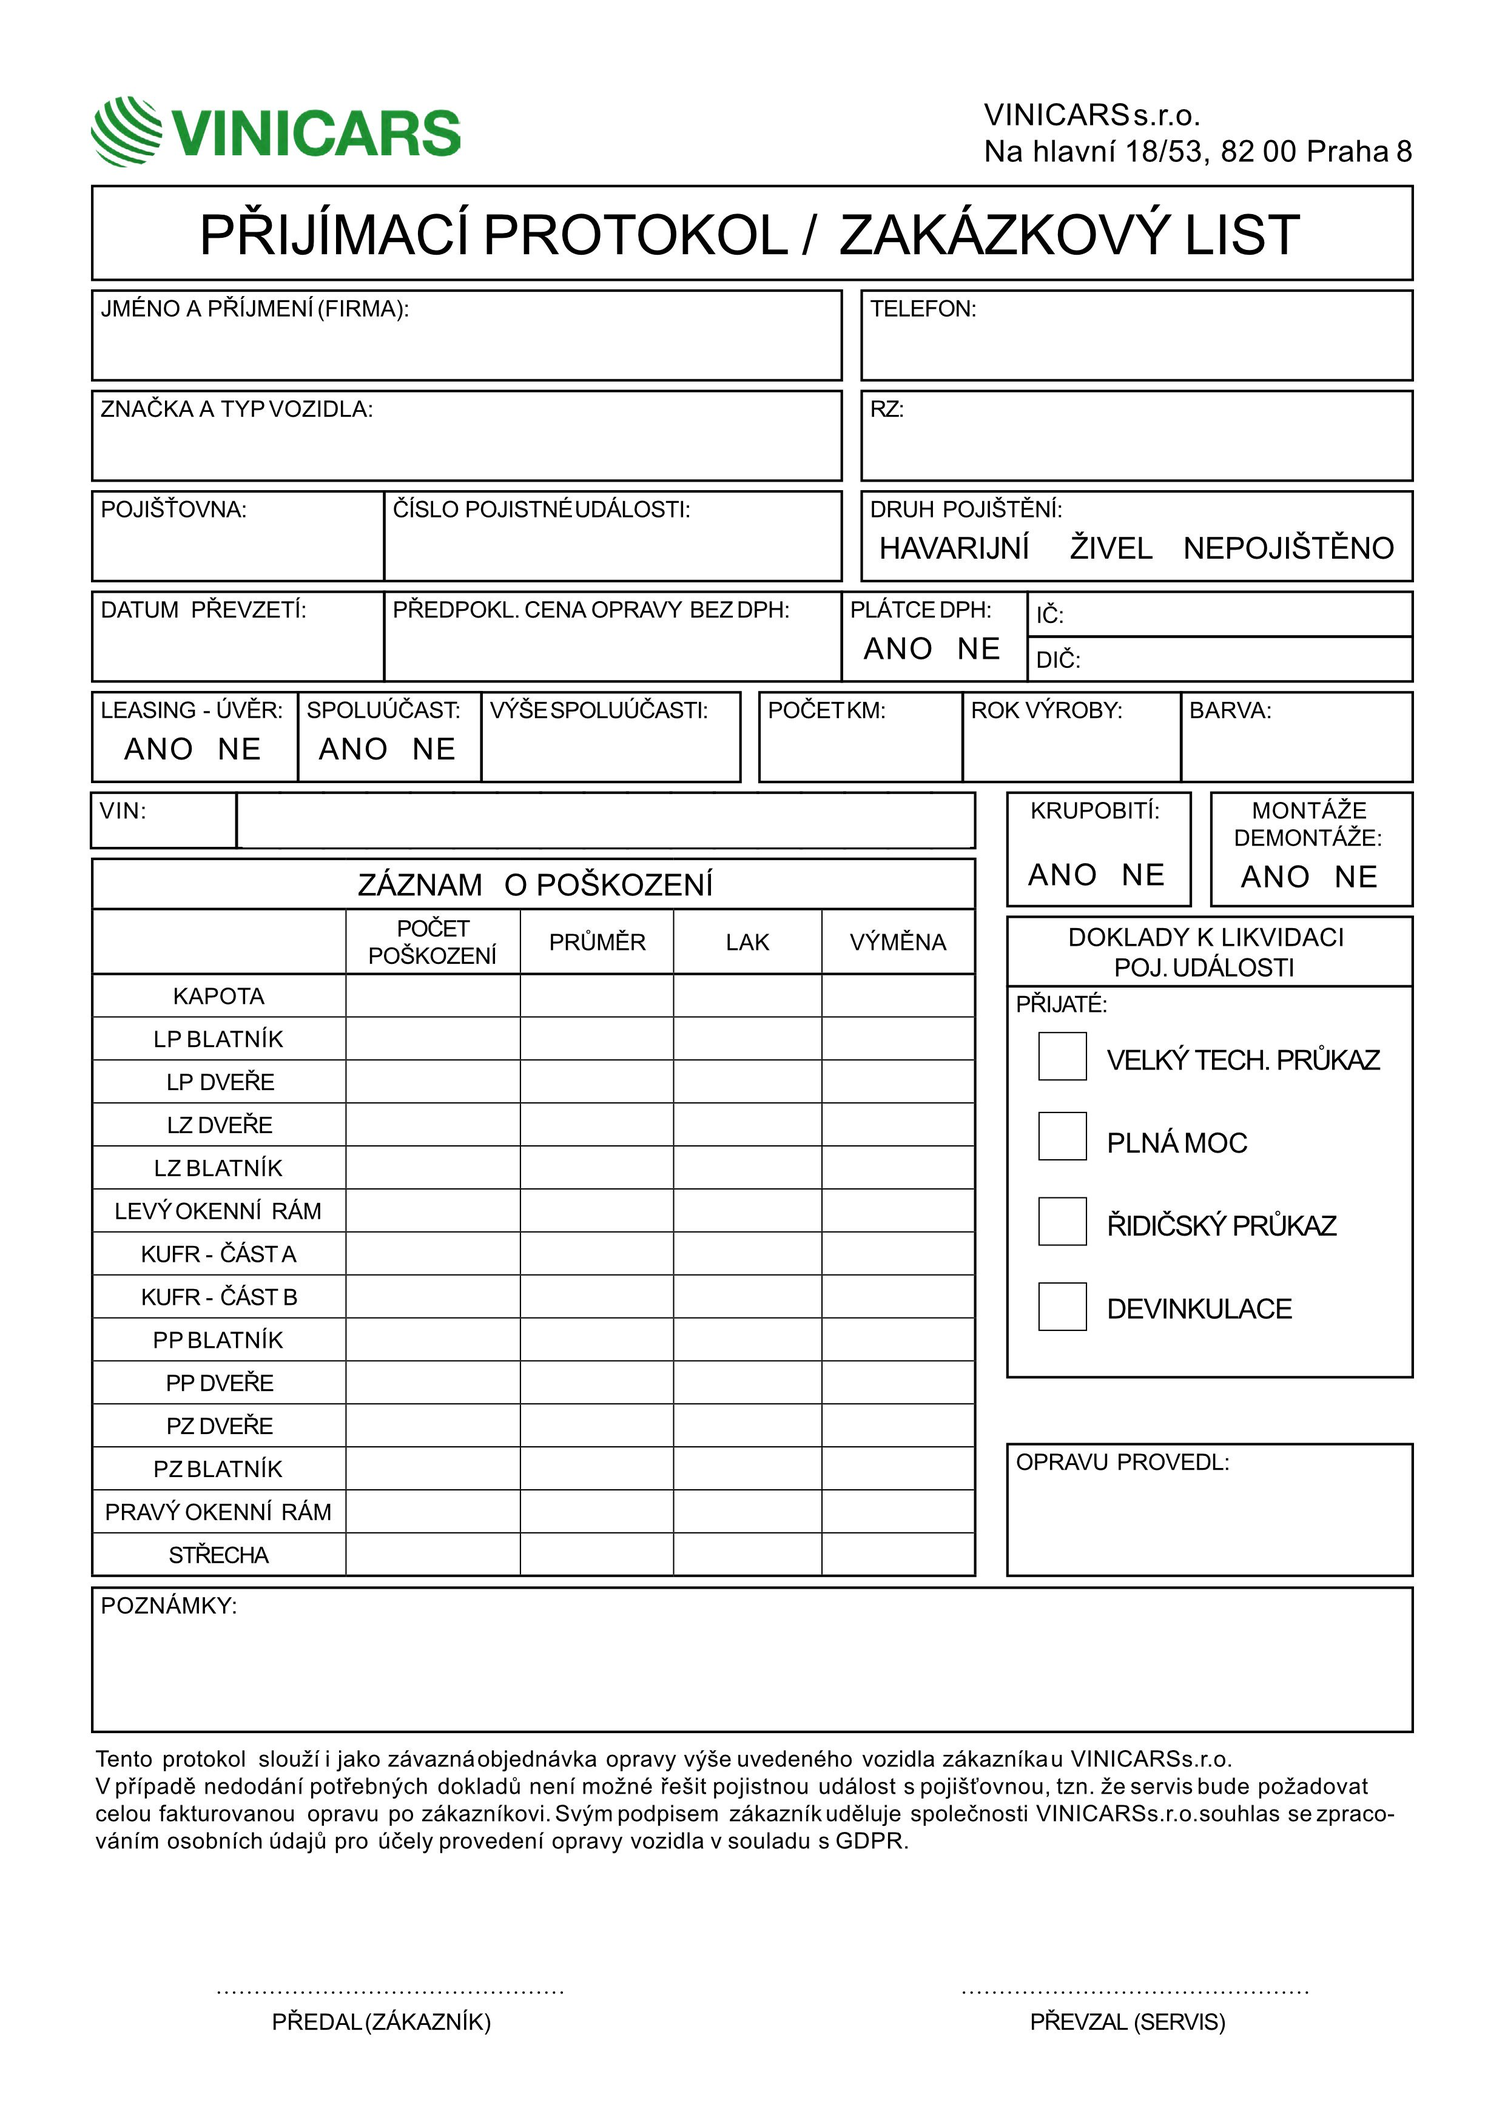
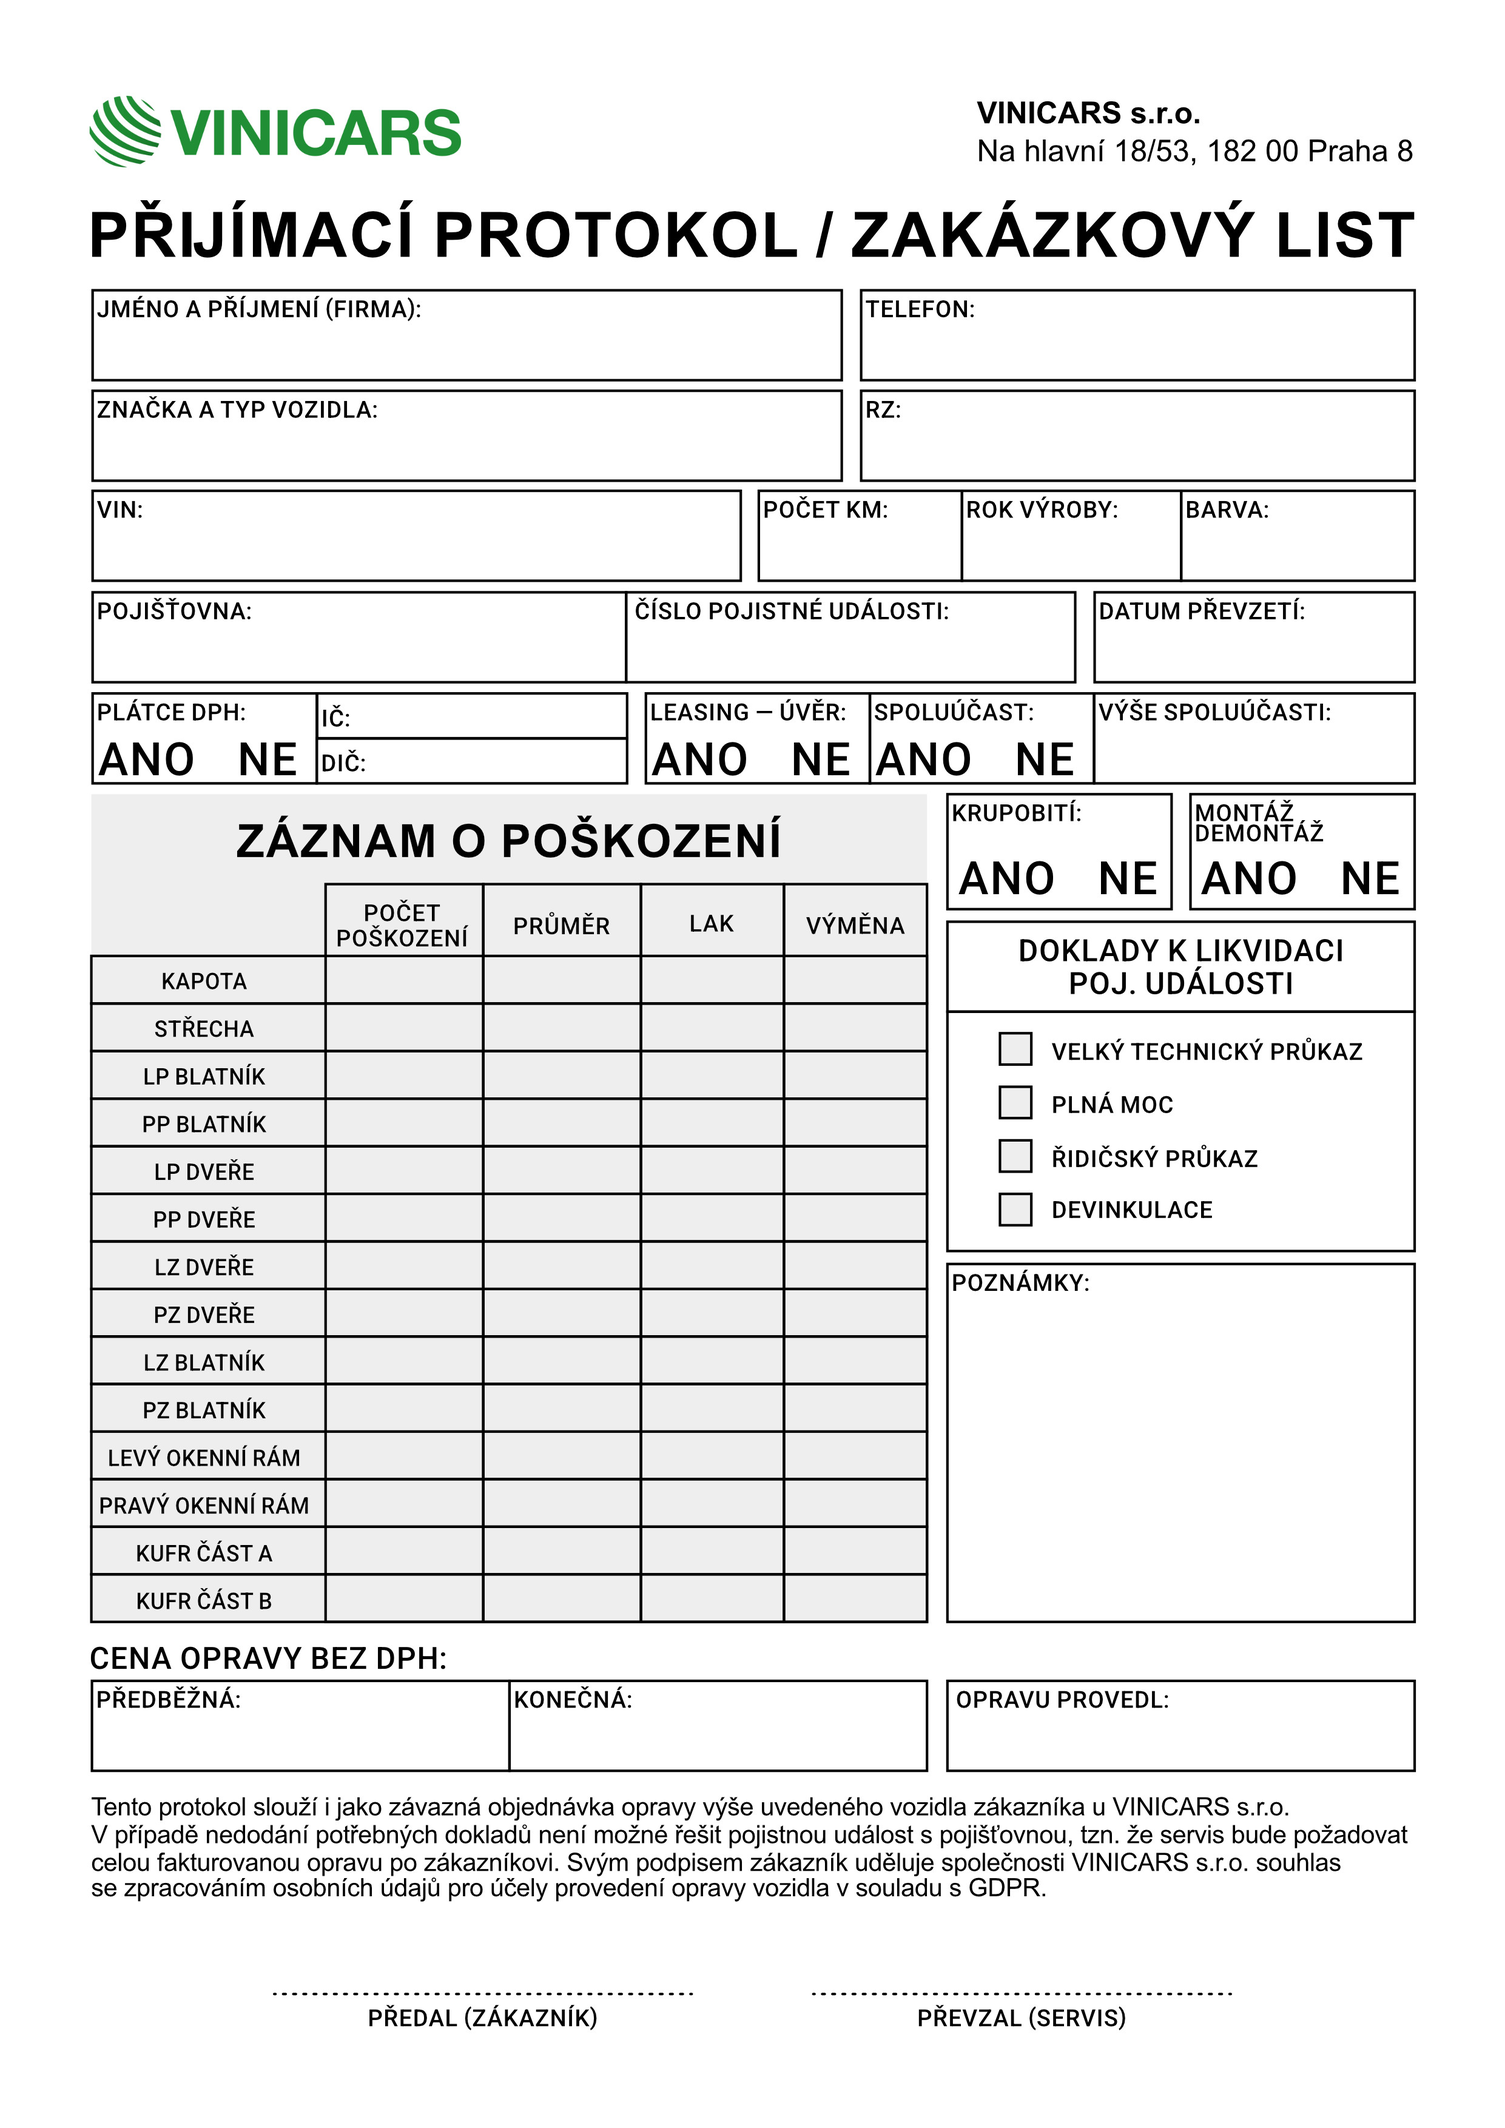
Add SignaturePad and Modal components with styles, update TypeScript config and package dependencies

diff --git a/app/form1/page.js b/app/form1/page.js
@@ -5,6 +5,8 @@ import { useRouter } from "next/navigation";
 import jsPDF from "jspdf";
 import JSZip from "jszip";
 import { saveAs } from "file-saver";
+import SignatureCanvas from "react-signature-canvas";
+import Modal from "../../components/Modal";
 
 export default function FormPage() {
     const [step, setStep] = useState(1);
@@ -15,6 +17,7 @@ export default function FormPage() {
         vehicleSPZ: '',
         vehicleVIN: '',
         vehicleColor: '',
+        vehicleYear: '',
         vehicleDistance: '',
         insuranceCompany: '',
         insuranceNumber: '',
@@ -224,6 +227,7 @@ export default function FormPage() {
         }
     };
 
+    
 
     const handleSubmit = async (e) => {
         e.preventDefault();
@@ -246,134 +250,144 @@ export default function FormPage() {
 
                 // Define positions for each text field
                 const positions = {
-                    technician: { x: 147, y: 215 },
+                    technician: { x: 133, y: 246  },
                     vehicleBrand: { x: 14, y: 65 },
                     vehicleType: { x: 65, y: 65 },
                     vehicleSPZ: { x: 122, y: 65 },
-                    vehicleVIN: { x: 34, y: 117 },
-                    vehicleColor: { x: 166, y: 108 },
-                    vehicleDistance: { x: 107, y: 108 },
-                    insuranceCompany: { x: 14, y: 80 },
-                    insuranceNumber: { x: 56, y: 80 },
-                    customerName: { x: 14, y: 51 },
+                    vehicleVIN: { x: 14 , y: 80 },
+                    vehicleColor: { x: 165, y: 80 },
+                    vehicleDistance: { x: 107, y: 80 },
+                    vehicleYear: { x: 136, y: 80 },
+                    insuranceCompany: { x: 14, y: 93 },
+                    insuranceNumber: { x: 88, y: 93 },
+                    customerName: { x: 14, y: 52 },
                     //customerAddress: { x: 10, y: 120 },
-                    customerPhone: { x: 122, y: 51 },
-                    serviceDate: { x: 14, y: 93 },
+                    customerPhone: { x: 122, y: 52 },
+                    serviceDate: { x: 154, y: 93 },
                     //hailsDiameter: { x: 10, y: 150 },
                     //contractMD: { x: 10, y: 160 },
                     //contractPaint: { x: 10, y: 170 },
-                    detailNotes: { x: 14, y: 231 },
-                    kapotaCount: { x: 50, y: 141 },
-                    kapotaDiameter: { x: 75, y: 141 },
-                    levyPredniBlatnikCount: {x: 50, y: 147},
-                    levyPredniBlatnikDiameter: { x: 75, y: 147 },
-                    levePredniDvereCount: { x: 50, y: 153 },
-                    levePredniDvereDiameter: { x: 75, y: 153 },
-                    leveZadniDvereCount: { x: 50, y: 159 },
-                    leveZadniDvereDiameter: { x: 75, y: 159 },
-                    leveZadniBlatnikyCount: { x: 50, y: 165 },
-                    leveZadniBlatnikyDiameter: { x: 75, y: 165 },
-                    levyRamCount: { x: 50, y: 171 },
-                    levyRamDiameter: { x: 75, y: 171 },
-                    zadniKapotaCount: { x: 50, y: 177 },
-                    zadniKapotaDiameter: { x: 75, y: 177 },
-                    pravyPredniBlatnikCount: { x: 50, y: 189 },
-                    pravyPredniBlatnikDiameter: { x: 75, y: 189 },
-                    pravePredniDvereCount: { x: 50, y: 195 },
-                    pravePredniDvereDiameter: { x: 75, y: 195 },
-                    praveZadniDvereCount: { x: 50, y: 201 },
-                    praveZadniDvereDiameter: { x: 75, y: 201 },
-                    pravyZadniBlatnikCount: { x: 50, y: 207 },
-                    pravyZadniBlatnikDiameter: { x: 75, y: 207 },
-                    pravyRamCount: { x: 50, y: 213 },
-                    pravyRamDiameter: { x: 75, y: 213 },
-                    strechaCount: { x: 50, y: 219 },
-                    strechaDiameter: { x: 75, y: 219 },
+                    detailNotes: { x: 134, y: 182 },
+                    kapotaCount: { x: 50, y: 139 },
+                    kapotaDiameter: { x: 75, y: 139 },
+                    strechaCount: { x: 50, y: 145 },
+                    strechaDiameter: { x: 75, y: 145 },
+                    levyPredniBlatnikCount: {x: 50, y: 152},
+                    levyPredniBlatnikDiameter: { x: 75, y: 152 },
+                    pravyPredniBlatnikCount: { x: 50, y: 159 },
+                    pravyPredniBlatnikDiameter: { x: 75, y: 159 },
+                    levePredniDvereCount: { x: 50, y: 165 },
+                    levePredniDvereDiameter: { x: 75, y: 165 },
+                    pravePredniDvereCount: { x: 50, y: 172 },
+                    pravePredniDvereDiameter: { x: 75, y: 172 },
+                    leveZadniDvereCount: { x: 50, y: 179 },
+                    leveZadniDvereDiameter: { x: 75, y: 179 },
+                    praveZadniDvereCount: { x: 50, y: 186 },
+                    praveZadniDvereDiameter: { x: 75, y: 186 },
+                    leveZadniBlatnikyCount: { x: 50, y: 192 },
+                    leveZadniBlatnikyDiameter: { x: 75, y: 192 },
+                    pravyZadniBlatnikCount: { x: 50, y: 199 },
+                    pravyZadniBlatnikDiameter: { x: 75, y: 199 },
+                    levyRamCount: { x: 50, y: 206 },
+                    levyRamDiameter: { x: 75, y: 206 },
+                    pravyRamCount: { x: 50, y: 211 },
+                    pravyRamDiameter: { x: 75, y: 211 },
+                    zadniKapotaCount: { x: 50, y: 219 },
+                    zadniKapotaDiameter: { x: 75, y: 219 },
                 };
 
                 // Add text fields to the PDF
                 Object.keys(positions).forEach((key) => {
-                    doc.text(`${formData[key]}`, positions[key].x, positions[key].y);
+                    if (key === 'detailNotes') {
+                        const textLines = doc.splitTextToSize(formData[key], 62);
+                        let curentY = positions[key].y;
+                        textLines.forEach((line) => {
+                            doc.text(line, positions[key].x, curentY);
+                            curentY += 6; // Adjust line height
+                        })
+                    } else {
+                        doc.text(`${formData[key]}`, positions[key].x, positions[key].y);
+                    }
                 });
 
                 // Add checkboxes to the PDF
                 if (formData.kapotaLak) {
-                    doc.text("X", 100, 141);
+                    doc.text("X", 100, 139);
                 }
                 if (formData.kapotaVymena) {
-                    doc.text("X", 120, 141);
+                    doc.text("X", 118, 139);
                 }
                 if (formData.levyPredniBlatnikLak) {
-                    doc.text("X", 100, 147);
+                    doc.text("X", 100, 152);
                 }
                 if (formData.levyPredniBlatnikVymena) {
-                    doc.text("X", 120, 147);
+                    doc.text("X", 118, 152);
                 }
                 if (formData.levePredniDvereLak) {
-                    doc.text("X", 100, 153);
-                }
-                if (formData.levePredniDvereVymena) {
-                    doc.text("X", 120, 153);
-                }
-                if (formData.leveZadniDvereLak) {
-                    doc.text("X", 100, 159);
-                }
-                if (formData.leveZadniDvereVymena) {
-                    doc.text("X", 120, 159);
-                }
-                if (formData.leveZadniBlatnikyLak) {
                     doc.text("X", 100, 165);
                 }
+                if (formData.levePredniDvereVymena) {
+                    doc.text("X", 118, 165);
+                }
+                if (formData.leveZadniDvereLak) {
+                    doc.text("X", 100, 179);
+                }
+                if (formData.leveZadniDvereVymena) {
+                    doc.text("X", 118, 179);
+                }
+                if (formData.leveZadniBlatnikyLak) {
+                    doc.text("X", 100, 192);
+                }
                 if (formData.leveZadniBlatnikyVymena) {
-                    doc.text("X", 120, 165);
+                    doc.text("X", 118, 192);
                 }
                 if (formData.levyRamLak) {
-                    doc.text("X", 100, 171);
+                    doc.text("X", 100, 206);
                 }
                 if (formData.levyRamVymena) {
-                    doc.text("X", 120, 171);
+                    doc.text("X", 118, 206);
                 }
                 if (formData.zadniKapotaLak) {
-                    doc.text("X", 100, 177);
-                }
-                if (formData.zadniKapotaVymena) {
-                    doc.text("X", 120, 177);
-                }
-                if (formData.pravyPredniBlatnikLak) {
-                    doc.text("X", 100, 189);
-                }
-                if (formData.pravyPredniBlatnikVymena) {
-                    doc.text("X", 120, 189);
-                }
-                if (formData.pravePredniDvereLak) {
-                    doc.text("X", 100, 195);
-                }
-                if (formData.pravePredniDvereVymena) {
-                    doc.text("X", 120, 195);
-                }
-                if (formData.praveZadniDvereLak) {
-                    doc.text("X", 100, 201);
-                }
-                if (formData.praveZadniDvereVymena) {
-                    doc.text("X", 120, 201);
-                }
-                if (formData.pravyZadniBlatnikLak) {
-                    doc.text("X", 100, 207);
-                }
-                if (formData.pravyZadniBlatnikVymena) {
-                    doc.text("X", 120, 207);
-                }
-                if (formData.pravyRamLak) {
-                    doc.text("X", 100, 213);
-                }
-                if (formData.pravyRamVymena) {
-                    doc.text("X", 120, 213);
-                }
-                if (formData.strechaLak) {
                     doc.text("X", 100, 219);
                 }
-                if (formData.strechaVymena) {
+                if (formData.zadniKapotaVymena) {
                     doc.text("X", 120, 219);
+                }
+                if (formData.pravyPredniBlatnikLak) {
+                    doc.text("X", 100, 159);
+                }
+                if (formData.pravyPredniBlatnikVymena) {
+                    doc.text("X", 118, 159);
+                }
+                if (formData.pravePredniDvereLak) {
+                    doc.text("X", 100, 172);
+                }
+                if (formData.pravePredniDvereVymena) {
+                    doc.text("X", 118, 172);
+                }
+                if (formData.praveZadniDvereLak) {
+                    doc.text("X", 100, 186);
+                }
+                if (formData.praveZadniDvereVymena) {
+                    doc.text("X", 118, 186);
+                }
+                if (formData.pravyZadniBlatnikLak) {
+                    doc.text("X", 100, 199);
+                }
+                if (formData.pravyZadniBlatnikVymena) {
+                    doc.text("X", 120, 199);
+                }
+                if (formData.pravyRamLak) {
+                    doc.text("X", 100, 211);
+                }
+                if (formData.pravyRamVymena) {
+                    doc.text("X", 118, 211);
+                }
+                if (formData.strechaLak) {
+                    doc.text("X", 100, 145);
+                }
+                if (formData.strechaVymena) {
+                    doc.text("X", 118, 145);
                 }
 
                 const pdfBlob = doc.output("blob");
@@ -833,6 +847,16 @@ export default function FormPage() {
                                 name="vehicleColor"
                                 placeholder="Černá, bílá, modrá, ..."
                                 value={formData.vehicleColor || ""}
+                                onChange={handleChange}
+                            />
+                        </label>
+
+                        <label className="form-field__input flex flex-row flex-wrap">Rok výroby
+                            <input
+                                type="text"
+                                name="vehicleYear"
+                                placeholder="2015"
+                                value={formData.vehicleYear || ""}
                                 onChange={handleChange}
                             />
                         </label>

diff --git a/components/SignaturePad.js b/components/SignaturePad.js
@@ -1,0 +1,41 @@
+// components/SignaturePadComponent.js
+import React, { useRef } from 'react';
+import SignatureCanvas from 'react-signature-canvas';
+
+const SignaturePadComponent = ({ onSave }) => {
+  const signaturePad = useRef();
+
+  const handleSave = () => {
+    if (signaturePad.current) {
+      const dataURL = signaturePad.current.toDataURL();
+      if (onSave) {
+        onSave(dataURL);
+      }
+    }
+  };
+
+  const handleClear = () => {
+    if (signaturePad.current) {
+      signaturePad.current.clear();
+    }
+  };
+
+  return (
+    <div>
+      <SignatureCanvas
+        ref={signaturePad}
+        penColor="black"
+        canvasProps={{
+          width: 300,
+          height: 150,
+          className: 'sigCanvas',
+          style: { border: '1px solid #ccc', width: '100%' },
+        }}
+      />
+      <button onClick={handleSave}>Save Signature</button>
+      <button onClick={handleClear}>Clear</button>
+    </div>
+  );
+};
+
+export default SignaturePadComponent;

diff --git a/styles/components/modal.scss b/styles/components/modal.scss
@@ -1,0 +1,34 @@
+/* components/Modal.module.css */
+.modalOverlay {
+    position: fixed;
+    top: 0;
+    left: 0;
+    width: 100%;
+    height: 100%;
+    background-color: rgba(0, 0, 0, 0.5); /* Semi-transparent background */
+    display: flex;
+    justify-content: center;
+    align-items: center;
+    z-index: 1000; /* Ensure it's on top of other content */
+  }
+  
+  .modalContent {
+    background-color: white;
+    padding: 20px;
+    border-radius: 8px;
+    box-shadow: 0 0 10px rgba(0, 0, 0, 0.2);
+    max-width: 90%;
+    max-height: 90vh;
+    overflow-y: auto;
+    position: relative; /* For absolute positioning of the close button */
+  }
+  
+  .closeButton {
+    position: absolute;
+    top: 10px;
+    right: 10px;
+    font-size: 20px;
+    border: none;
+    background: none;
+    cursor: pointer;
+  }

diff --git a/components/Modal.js b/components/Modal.js
@@ -1,0 +1,22 @@
+// components/Modal.js
+import React from 'react';
+//import styles from './Modal.module.css'; // Create a CSS module for styling
+
+const Modal = ({ isOpen, onClose, children }) => {
+  if (!isOpen) {
+    return null;
+  }
+
+  return (
+    <div className='modalOverlay'>
+      <div className='modalContent'>
+        <button className='closeButton' onClick={onClose}>
+          &times;
+        </button>
+        {children}
+      </div>
+    </div>
+  );
+};
+
+export default Modal;

diff --git a/styles/components/_index.scss b/styles/components/_index.scss
@@ -1,5 +1,6 @@
 @forward 'buttons';
 @forward 'forms';
 @forward 'headings';
+@forward 'modal';
 @forward 'search';
 @forward 'stepper';
